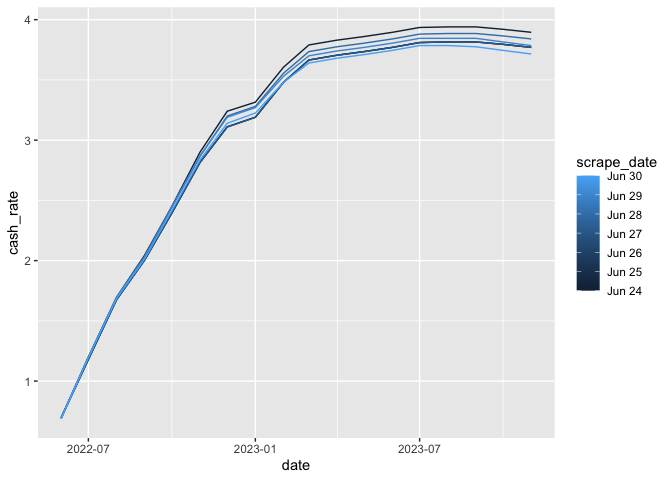
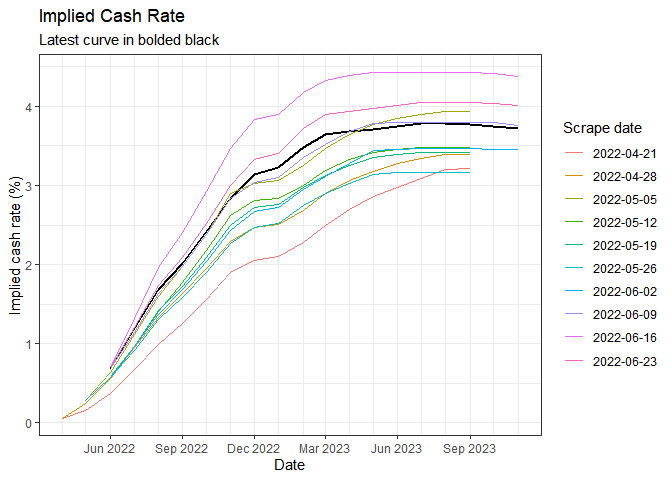
make the graph more pretty

diff --git a/README.md b/README.md
@@ -1,19 +1,12 @@
 <!-- README.md is generated from README.Rmd. Please edit that file -->
 
-ASX Implied Cash Rate
-=====================
+# ASX Implied Cash Rate
 
 This repo automatically scrapes the ASX 30 Day Interbank Cash Rate
 Futures Implied Yield Curve from
 [here](https://www.asx.com.au/data/trt/ib_expectation_curve_graph.pdf)
 and converts it into a simple csv.
 
-Implied yield curve
--------------------
-
-    all_data <- fread("combined-data/all_data.csv")
-
-    ggplot(all_data, aes(x = date, y = cash_rate, colour = scrape_date, group = scrape_date)) +
-      geom_line()
+## Implied yield curve
 
 <img src="man/figures/README-graph-1.png" width="100%" />
